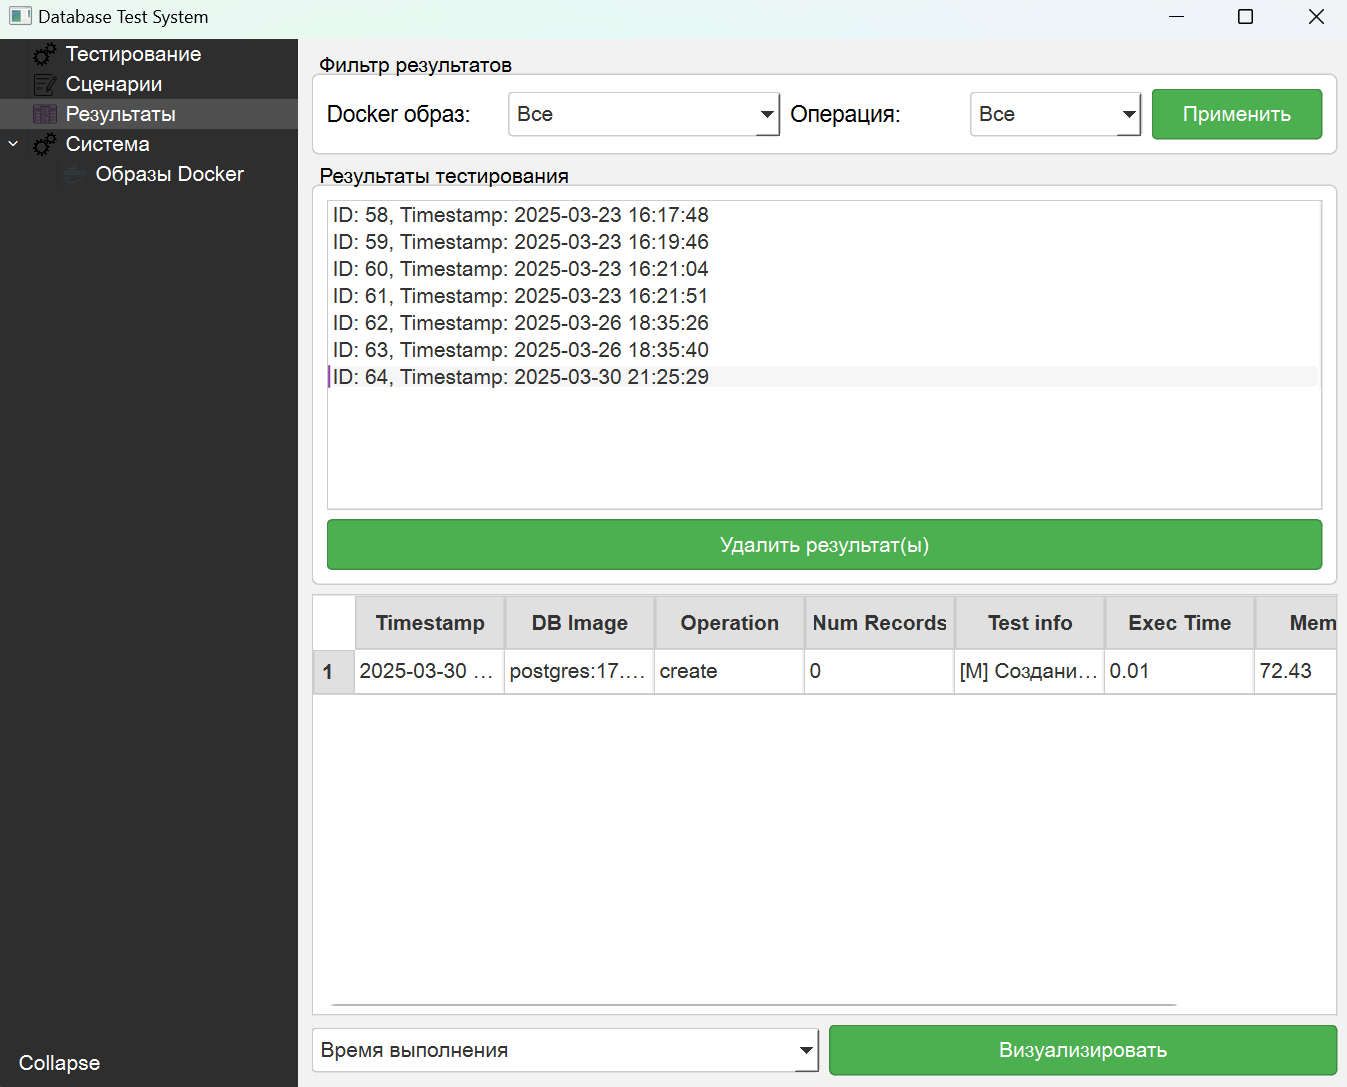
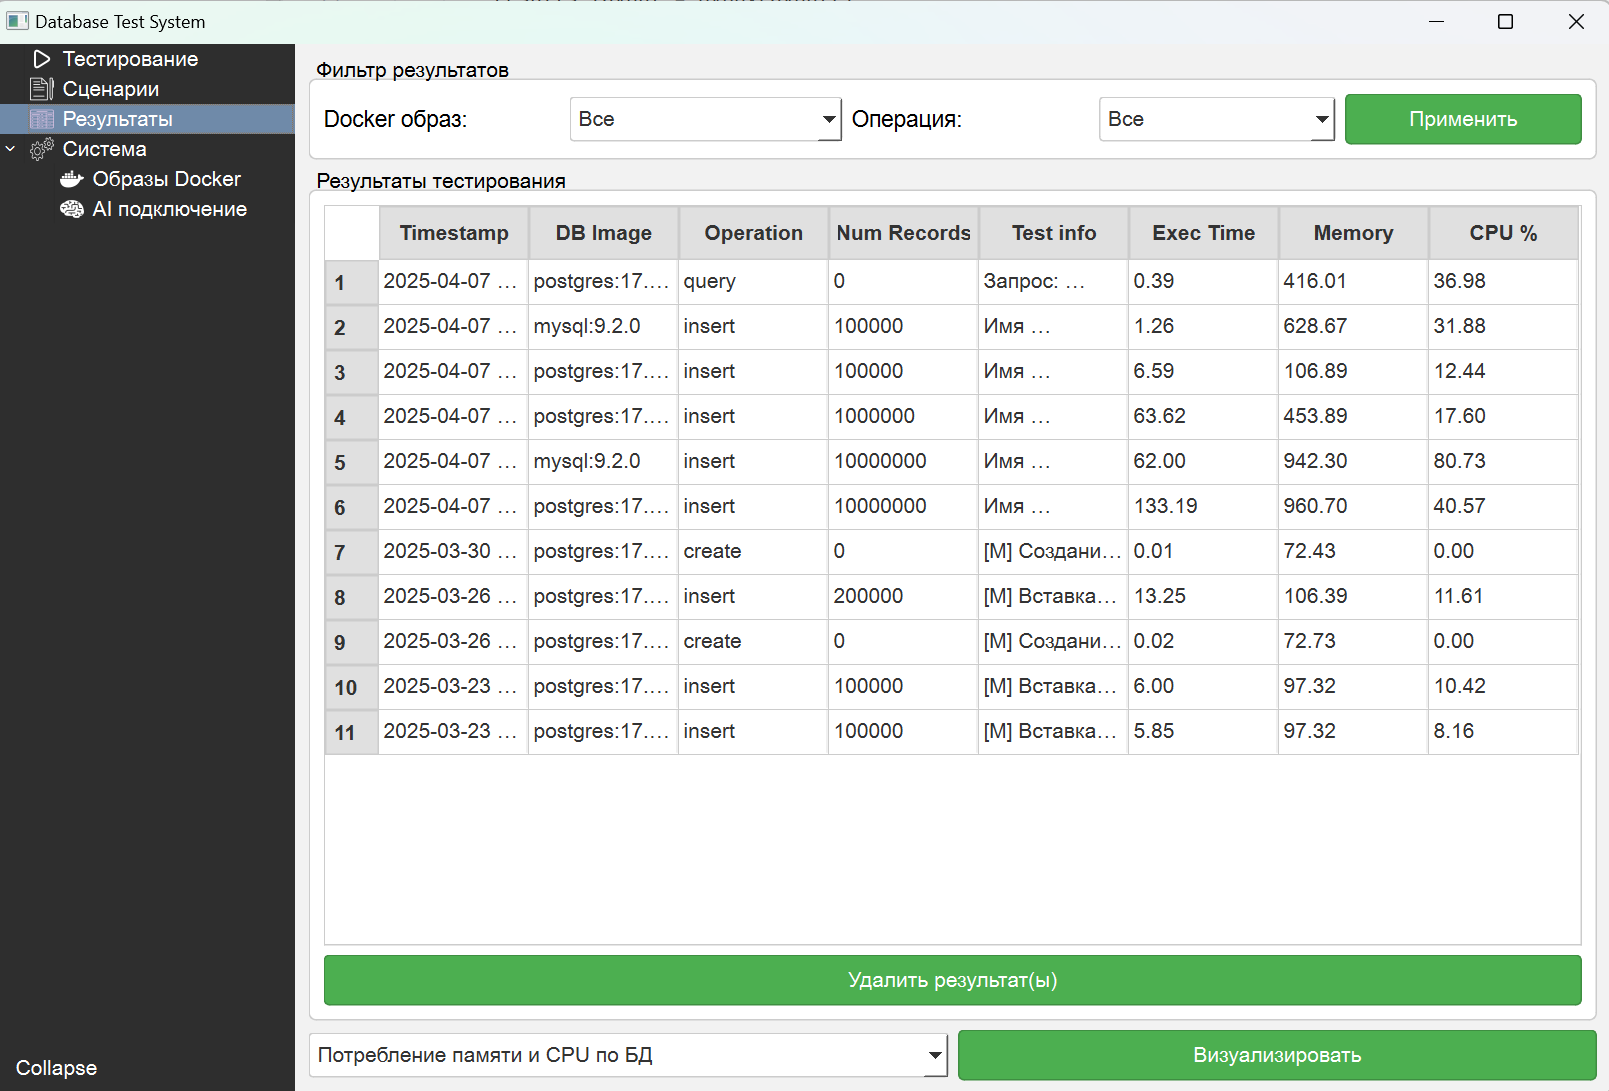
add percent info

diff --git a/src/desktop_client/results/test_result_tab.py b/src/desktop_client/results/test_result_tab.py
@@ -31,10 +31,8 @@ class TestResultsApp(QWidget):
     def __init__(self) -> None:
         super().__init__()
         self.initUI()
-        # Загрузим уникальные значения для фильтров
-        self.load_filter_values()
+        self.load_possible_filter_key_values()
         self.visualizer = TestResultsVisualizer()
-        # Сразу загрузим результаты (без фильтров)
         self.get_results()
         self.refresh_timer = QTimer(self)
         self.refresh_timer.setInterval(5000)
@@ -83,7 +81,7 @@ class TestResultsApp(QWidget):
         self.results_table.setSelectionMode(
             QAbstractItemView.SelectionMode.ExtendedSelection,
         )
-        self.results_table.setColumnCount(7)
+        self.results_table.setColumnCount(8)
         self.results_table.setHorizontalHeaderLabels(
             [
                 "Timestamp",
@@ -93,6 +91,7 @@ class TestResultsApp(QWidget):
                 "Test info",
                 "Exec Time",
                 "Memory",
+                "CPU %",
             ],
         )
         self.results_table.setSelectionBehavior(
@@ -125,7 +124,7 @@ class TestResultsApp(QWidget):
     # ---------------------------------------------------------------------
     # Методы для фильтрации
     # ---------------------------------------------------------------------
-    def load_filter_values(self) -> None:
+    def load_possible_filter_key_values(self) -> None:
         """
         Заполняет комбобоксы уникальными значениями db_image и operation,
         чтобы пользователь мог выбирать фильтры.
@@ -184,9 +183,10 @@ class TestResultsApp(QWidget):
                 6,
                 QTableWidgetItem(f"{result.memory_used:.2f}"),
             )
+            self.results_table.setItem(row, 7, QTableWidgetItem(f"{result.cpu_percent:.2f}"))
+
 
     def delete_selected_results(self) -> None:
-        """Удаляет выбранные результаты из БД и обновляет таблицу."""
         selected_indexes = self.results_table.selectionModel().selectedRows()
         if not selected_indexes:
             QMessageBox.warning(self, "Ошибка", "Выберите результат(ы) для удаления.")
